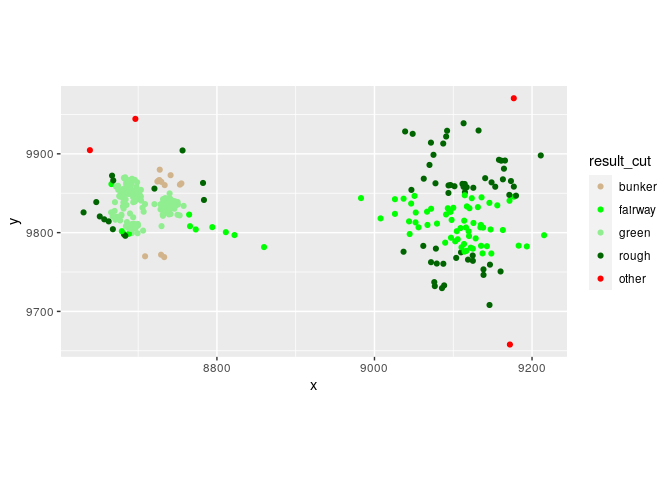
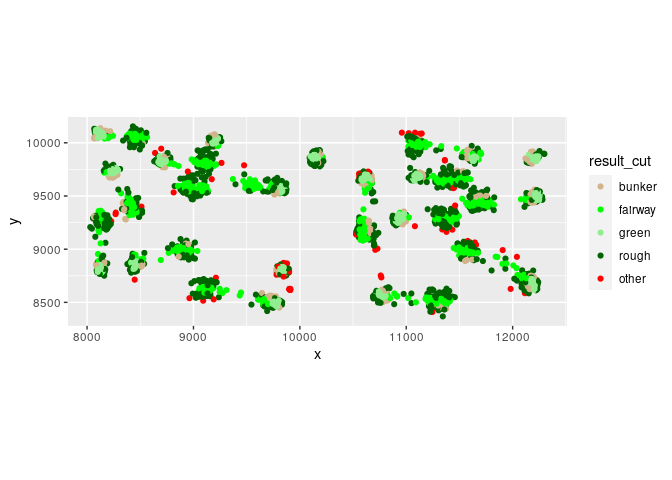
adding knn classifier

diff --git a/posts/02_detect_cut/readme.md b/posts/02_detect_cut/readme.md
@@ -4,18 +4,116 @@ Ball Location Classifier
 ``` r
 library(tidyverse)
 
+library(caret)
+
+library(recipes)
+
+library(patchwork)
+
 source("~/project/functions/prepare_shot_data.R")
 
 source("~/project/functions/plot_shot_data.R")
 
 shot_data = prepare_shot_data()
 
-hole_one = shot_data %>% 
-  filter(hole == 1)
-
-plot_shot_data(hole_one)
+plot_shot_data(shot_data)
 ```
 
-    ## Warning: Removed 120 rows containing missing values (geom_point).
+    ## Warning: Removed 2187 rows containing missing values (geom_point).
 
 ![](readme_files/figure-gfm/unnamed-chunk-1-1.png)<!-- -->
+
+``` r
+train_data = shot_data %>% 
+  select(result_cut, x, y) %>% 
+  filter(!is.na(result_cut),
+         !is.na(x),
+         !is.na(y)) %>% 
+  mutate(result_cut = factor(result_cut))
+
+ctrl = trainControl(method = "cv",
+                    savePredictions = "final",
+                    allowParallel = TRUE,
+                    classProbs = TRUE)
+
+tune_grid = data.frame(k = 3:8)
+
+trained_model = caret::train(result_cut ~ x + y,
+                             data = train_data,
+                             method = "knn",
+                             trControl = ctrl,
+                             tuneGrid = tune_grid)
+
+plot_hole_map = function(hole_num = 5) {
+  
+  hole_shots = shot_data %>% 
+    filter(hole == hole_num,
+           shot == 1) %>% 
+    filter(!is.na(x)) %>% 
+    select(result_cut,
+           x,
+           y) %>% 
+    mutate(data_type = 'shot')
+  
+  hole_min_x = min(hole_shots$x)
+  
+  hole_max_x = max(hole_shots$x)
+  
+  hole_min_y = min(hole_shots$y)
+  
+  hole_max_y = max(hole_shots$y)
+  
+  grid_space = 10
+  
+  hole_grid = expand.grid(x = seq(hole_min_x, hole_max_x, grid_space),
+                          y = seq(hole_min_y, hole_max_y, grid_space))
+  
+  hole_grid$result_cut = predict(trained_model, newdata = hole_grid)
+  
+  hole_grid$data_type = 'prediction'
+  
+  plot_data_long = hole_shots %>% 
+    bind_rows(hole_grid)
+  
+  result_cut_colors = c('bunker'='tan',
+                        'fairway'='green',
+                        'green'='lightgreen',
+                        'rough'='darkgreen',
+                        'other'='red')
+  
+  ggplot() +
+    geom_tile(data = hole_grid,
+               mapping = aes(x = x,
+                             y = y,
+                             fill = result_cut),
+              alpha = 0.3) +
+    geom_point(data = hole_shots,
+               mapping = aes(x = x,
+                             y = y,
+                             color = result_cut)) +
+    facet_wrap(vars(data_type)) +
+    coord_equal() +
+    scale_color_manual(values = result_cut_colors) +
+    scale_fill_manual(values = result_cut_colors) +
+    theme(legend.position = "none",
+          axis.text = element_blank(),
+          axis.ticks = element_blank(),
+          panel.grid = element_blank(),
+          panel.background = element_blank(),
+          axis.title = element_blank())
+  
+
+}
+
+plot_hole_map(1)
+```
+
+![](readme_files/figure-gfm/unnamed-chunk-2-1.png)<!-- -->
+
+``` r
+1:18 %>%
+    map(.f = plot_hole_map) %>%
+    wrap_plots(ncol = 6,nrow = 3)
+```
+
+![](readme_files/figure-gfm/unnamed-chunk-2-2.png)<!-- -->
